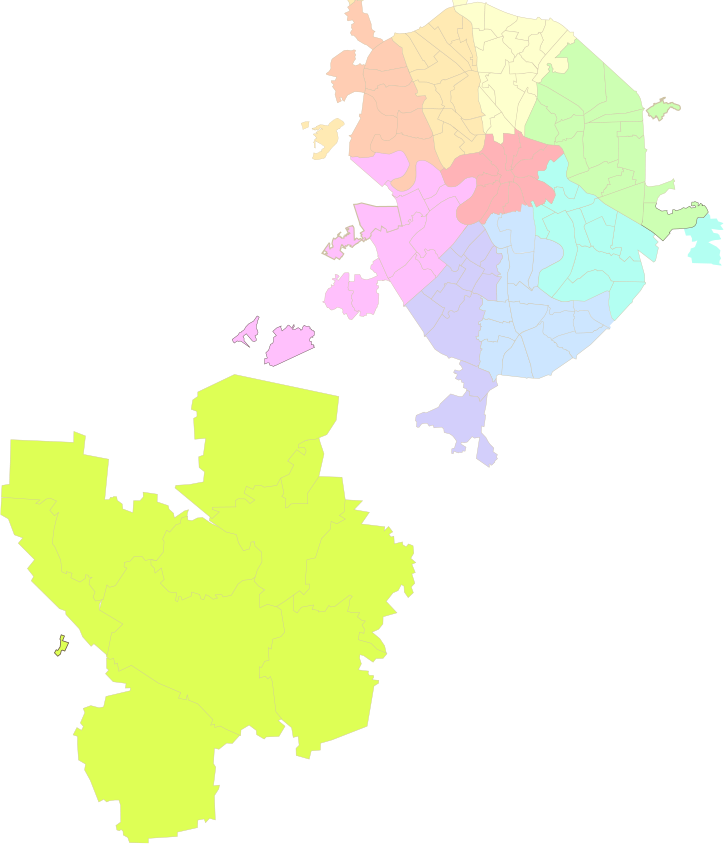
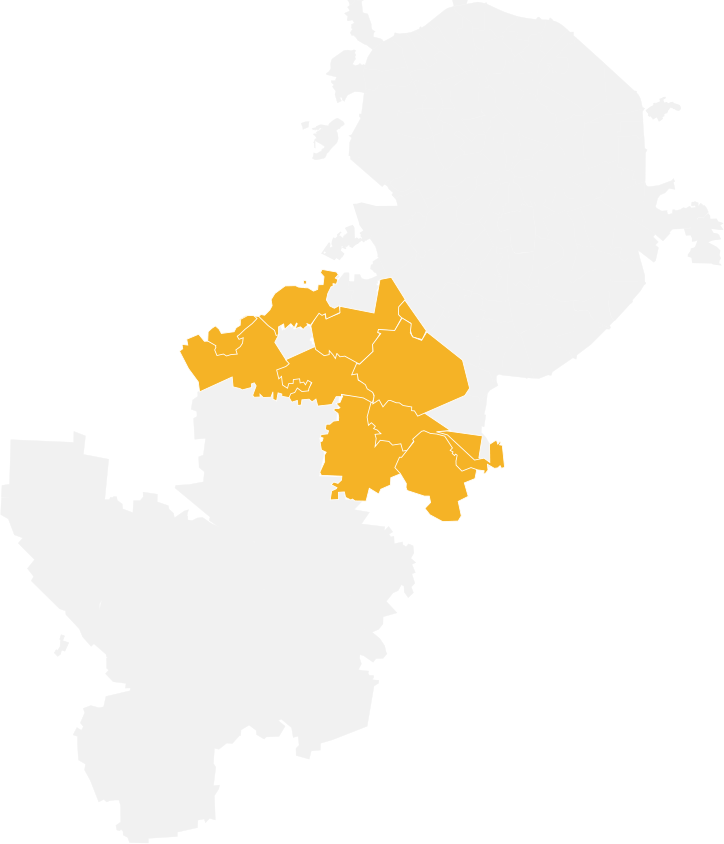
vmo maps

diff --git a/app/components/depfin_services_VMO/depfin_services_VMO.scss b/app/components/depfin_services_VMO/depfin_services_VMO.scss
@@ -9,10 +9,14 @@
       letter-spacing: 0;
     }
   }
+  &__tabs-wrapper {
+    z-index: 2;
+    position: relative;
+    background: transparent;
+  }
 
   &__tabs-control {
     display: table;
-
     font-size: 0;
     width: 100%;
     margin: 0;
@@ -30,6 +34,7 @@
       text-align: center;
       width: 20%;
       transition: all .25s ease-in-out;
+      min-height: 52px;
 
       &[data-tab-target="vmoAll"] {
         background-color: #e9e9e9;
@@ -40,9 +45,15 @@
       }
       &[data-tab-target="vmoCityDistricts"] {
         background-color: #f5b326;
+        &.active {
+          background-color: transparent;
+        }
       }
       &[data-tab-target="vmoSettlements"] {
         background-color: #82b345;
+        &.active {
+          background-color: transparent;
+        }
       }
       &[data-tab-target="vmoPassports"] {
         background-color: #848484;
@@ -64,6 +75,25 @@
     &[data-tab="vmoAll"] {
       padding-bottom: 100px;
     }
+    &[data-tab="vmoMunicipalDistricts"] {
+      .services-VMO__map-wrapper {
+        margin-top: 0;
+      }
+    }
+    &[data-tab="vmoSettlements"] {
+      .services-VMO__map-wrapper {
+        position: absolute;
+        right: 0;
+        margin-left: 0;
+        margin-right: 0;
+      }
+      .analityc-control-group._search {
+        float: right;
+      }
+      .services-VMO__content_municipal {
+        padding-bottom: 150px;
+      }
+    }
   }
   .analityc-widget {
     margin-top: 0;
@@ -74,6 +104,8 @@
     font-size: 28px;
     text-transform: uppercase;
     margin-top: 18px;
+    position: relative;
+    z-index: 2;
 
     h3 {
       display: inline;
@@ -717,9 +749,16 @@
       width: 676px;
       margin-left: -100px;
       margin-right: -67px;
-      z-index: 1;
+      margin-top: -151px;
+      z-index: 0;
+      background-color: $color-white;
       img {
         width: 100%;
+        height: 100%;
+      }
+
+      @media (max-width: 1024px) {
+        margin-top: -153px;
       }
     }
 
@@ -774,6 +813,8 @@
 
   .services-VMO__content_municipal-graphics {
     width: 100%;
+    z-index: 1;
+    position: relative;
     .services-VMO__title {
       margin-bottom: 10px;
     }
@@ -1165,6 +1206,9 @@
 
 
   @media (max-width: 1024px) {
+    .tabs__tab[data-tab=vmoSettlements] .services-VMO__map-wrapper {
+      right: -50px;
+    }
     .alternative-link {
       clear: both;
       float: left;
@@ -1264,9 +1308,21 @@
   }
 
   @media (max-width: 768px) {
+    .services-VMO__tabs-control a.active {
+      background-color: $color-white !important;
+    }
     &__map-wrapper {
       width: 70%;
       padding-top: 116px;
+      position: relative !important;
+    }
+    .tabs__tab[data-tab=vmoSettlements] {
+      .services-VMO__content_municipal {
+        padding-bottom: 0;
+      }
+      .services-VMO__map-wrapper {
+        right: 0;
+      }
     }
     &__content_card {
       .services-VMO__text {
